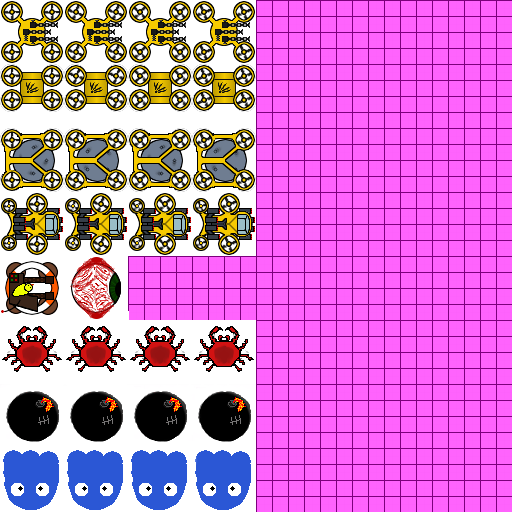
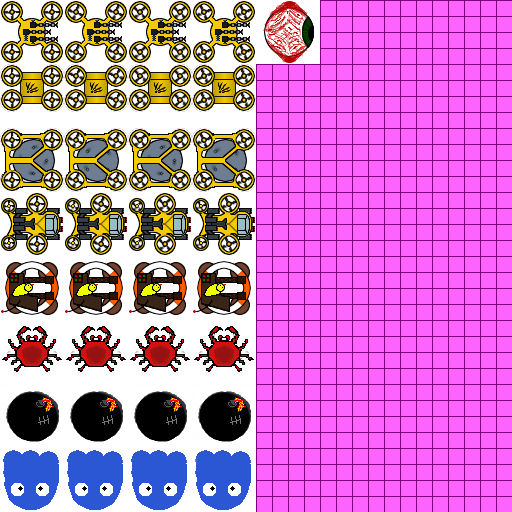
Boss eingebaut. fixes #76

Changed region(s): [[0.125, 0.5, 0.5, 0.625], [0.5, 0.0, 0.625, 0.125]]

diff --git a/src/de/_13ducks/spacebatz/shared/EnemyTypes.java b/src/de/_13ducks/spacebatz/shared/EnemyTypes.java
@@ -136,6 +136,28 @@ public class EnemyTypes implements java.io.Serializable {
         lurker.speed = (0.1f);
         lurker.sightrange = (5);
         lurker.enemylevel = (2);
+        
+        EnemyTypeStats boss = new EnemyTypeStats();
+        enemytypelist.add(boss);
+        boss.behaviour = (EnemyTypeStats.BehaviourType.SHOOTER);
+        boss.shootAbility = (EnemyTypeStats.AbilityType.FIREBULLET);
+        boss.abilityAttackspeed = 1;
+        boss.abilityBulletpic = 2;
+        boss.abilityBulletspeed = 0.15;
+        boss.abilityDamage = 120;
+        boss.abilityDamagespread = 0;
+        boss.abilityExplosionradius = 0;
+        boss.abilityHitEnemies = false;
+        boss.abilityMaxoverheat = 10;
+        boss.abilityReduceoverheat = 1;
+        boss.abilityRange = 20;
+        boss.abilitySpread = 0.15;
+        boss.healthpoints = (200);
+        boss.damage = (1);
+        boss.picture = (32);
+        boss.speed = (0.2f);
+        boss.sightrange = (10);
+        boss.enemylevel = (5);
 
 
 
